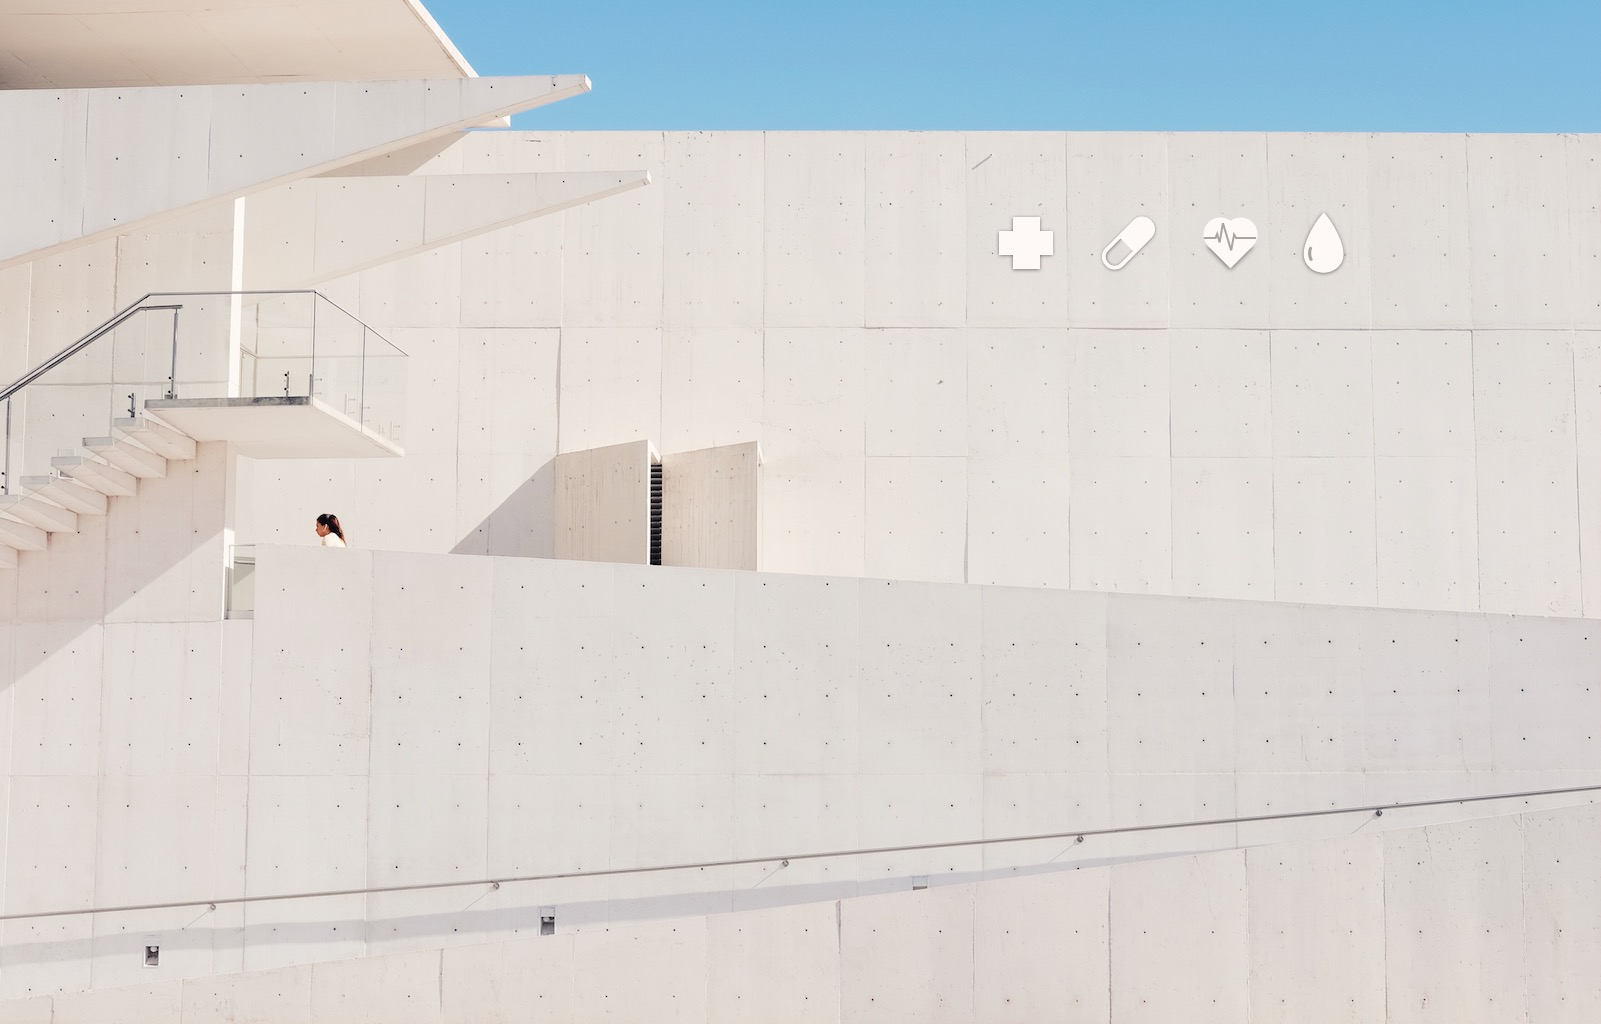
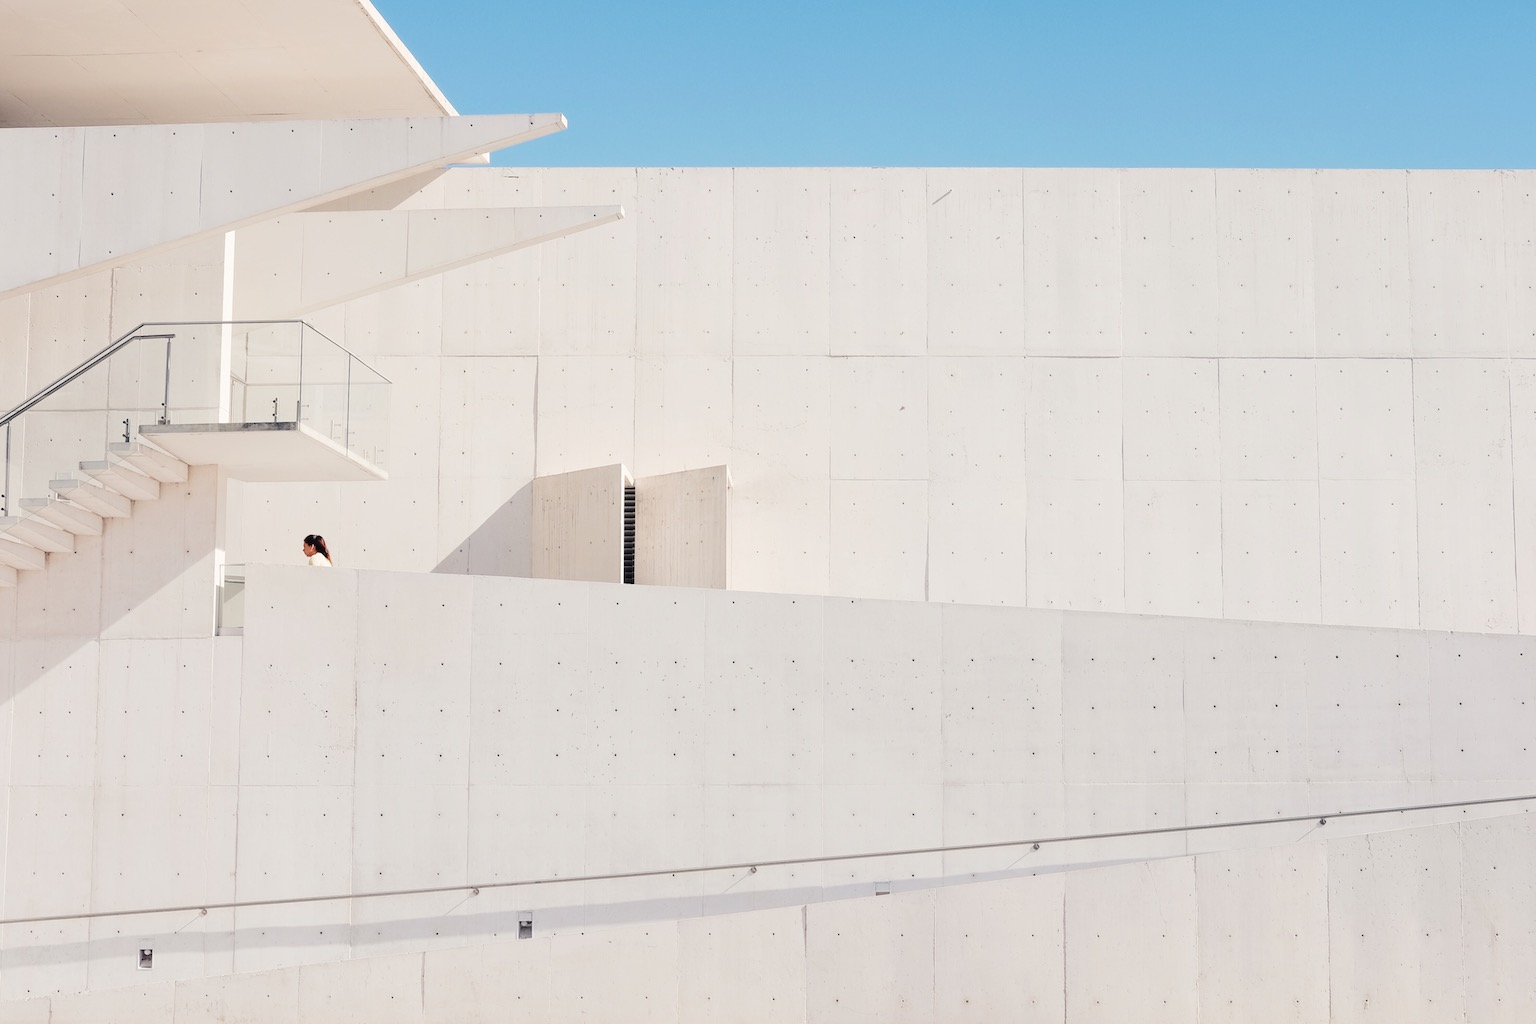
Fine tune health page and link with home page

diff --git a/zh-tw/health.html b/zh-tw/health.html
@@ -1,5 +1,5 @@
 <!DOCTYPE html>
-<html lang="en">
+<html lang="zh-Hant">
 
 <head>
     <meta charset="utf-8">
@@ -9,9 +9,9 @@
     <meta name="og:image" content="https://www.mtmtech.com.tw/images/health-title-og.jpeg" />
     <meta name="author" content="">
 
-    <link rel="icon" href="images/logo.png">
+    <link rel="icon" href="/images/logo.png">
     
-    <title>Smart Healthcare | MtM Technology Corporation</title>
+    <title>智慧醫療 | 先封科技</title>
 
     <!-- Bootstrap Core CSS -->
     <link href="//cdnjs.cloudflare.com/ajax/libs/twitter-bootstrap/3.3.7/css/bootstrap.min.css" rel="stylesheet">
@@ -21,11 +21,11 @@
     <link href='https://fonts.googleapis.com/css?family=Open+Sans:300italic,400italic,600italic,700italic,800italic,400,300,600,700,800' rel='stylesheet' type='text/css'>
 
     <!-- Plugin CSS -->
-    <link href="vendor/magnific-popup/magnific-popup.css" rel="stylesheet">
+    <link href="/vendor/magnific-popup/magnific-popup.css" rel="stylesheet">
 
     <!-- Theme CSS -->
-    <link href="css/creative.css" rel="stylesheet">
-    <link href="css/parallax.css" rel="stylesheet">
+    <link href="/css/creative.css" rel="stylesheet">
+    <link href="/css/parallax.css" rel="stylesheet">
 
     <!-- HTML5 Shim and Respond.js IE8 support of HTML5 elements and media queries -->
     <!-- WARNING: Respond.js doesn't work if you view the page via file:// -->
@@ -63,35 +63,32 @@
     <nav id="mainNav" class="navbar navbar-default navbar-fixed-top">
     </nav>
 
-    <section class="no-padding text-center" data-parallax="scroll" data-image-src="images/health-title.jpeg" style="padding-bottom: 200px;">
+    <section class="no-padding text-center" data-parallax="scroll" data-image-src="/images/health-title.jpeg" style="padding-bottom: 200px;">
         <div class="container">
             <div class="row parallax-header">
                 <div class="col-md-6 col-md-offset-6" style="color: rgba(0,0,0,0.7);">
                     <h3></h3>
-                    <h1>Smart Healthcare</h1>
-                    <hr class="light thin">
-                    <p>The MtM's smart healthcare solution is an open standard platform for that provide the more convenient experience on your
-                        personal medical products. Our development kits with generic IO can let you evaluate new functions
-                        just in time, and our hardware consulting service will save your cost and efforts in electronic design.
+                    <h1>智慧醫療解決方案</h1>
+                    <p>改變傳統醫療裝置的印象</p>
                     </p>
+                    <img src="/images/health-title-icons.png">
                 </div>
             </div>
         </div>
     </section>
 
-    <section style="background:url('images/health-oximeter-bg.jpeg') center top; background-size: cover;">
+    <section style="background:url('/images/health-oximeter-bg.jpeg') center top; background-size: cover;">
         <div class="container ">
             <div class="parallax-window">
-                <h1>Monitor your oxygen saturation and pulse rate </h1>
+                <h1>全球第一款穿戴式血氧飽和儀</h1>
                 <hr class="thin long light">
-                <p>By monitoring of the oxygenation of a patient's hemoglobin, it helps the cardiorespiratory condition of patients
-                    in need of care.</p>
+                <p>隨時監測血紅素中的血氧濃度，即時衡量自己的健康狀態，對照護的患者提供及時的協助</p>
                 <div class="row">
                     <div class="col-md-5 col-md-offset-1">
-                        <img src="images/health-oximeter-app.png">
+                        <img src="/images/health-oximeter-app.png">
                     </div>
                     <div class="col-md-5">
-                        <img src="images/health-oximeter-tbpc-watch.png">
+                        <img src="/images/health-oximeter-tbpc-watch.png">
                     </div>
                 </div>
             </div>
@@ -100,15 +97,12 @@
             <div class="container">
                 <div class="row parallax-window">
                     <div class="col-md-5 col-md-offset-1">
-                        <img src="images/health-oximeter-kit.png">
+                        <img src="/images/health-oximeter-kit.png">
                     </div>
                     <div class="col-md-6">
-                        <h2>Development kit</h2>
-                        <p>The Health Sensor Kit includes MtSense06 with a set of noninvasive PPG sensors which are invented
-                            by Taiwan Biophotonic(tBPC) Co. It provides high accuracy measurements of pulse and blood oxygen
-                            saturation(SpO₂). It is the industry’s first reflective optical sensor for fingerless wrist-worn
-                            pulse oximeter.</p>
-                        <a class="btn btn-xl btn-primary" href="/kit.html#kit-health">Get Development Kit</a>
+                        <h2>開發套件</h2>
+                        <p>Health Sensor Kit 內含血氧飽和度及脈博量測開發板 MtSense06。搭載由合作夥伴台醫光電所開發的光學反射式感應元件，可應用在腕戴式手表、機能衣。支援 ARM mbed OS，不需要安裝 SDK，直接在瀏覽器上開發。</p>
+                        <a class="btn btn-xl btn-primary" href="kit.html#kit-health">我要買</a>
                         <br><br><br>
                     </div>
                 </div>
@@ -118,42 +112,36 @@
             <div class="container">
                 <div class="row parallax-window">
                     <div class="col-md-6">
-                        <img src="images/health-oximeter-pcb.jpg" style="border:1px solid rgba(0, 0, 0, 0.6);">
+                        <img src="/images/health-oximeter-pcb.jpg" style="border:1px solid rgba(0, 0, 0, 0.6);">
                     </div>
                     <div class="col-md-6">
-                        <h2>Prototype consultant</h2>
-                        <p>From the wrist watch to smart t-shirt, we can help to drive your product idea to prototype. By SiP
-                            module, reference design, RF and certification recommendation, you could save time and cost of
-                            evaluation samples.
-                        </p>
+                        <h2>原型設計服務</h2>
+                        <p>我們有豐富的硬體電路經驗，包含增進天線效能及機構設計，可以快速將構想商品化，減少打件次數，節省設計成本。</p>
                     </div>
                 </div>
             </div>
         </div>
     </section>
 
-    <section class="no-padding" data-parallax="scroll" data-image-src="images/health-glucometer-bg.jpg">
+    <section class="no-padding" data-parallax="scroll" data-image-src="/images/health-glucometer-bg.jpg">
         <div class="parallax-window">
             <div class="container">
                 <div class="row">
                     <div class="col-md-8 col-md-offset-2">
-                        <h1>Connect your glucometer with mobile app, wirelessly.</h1>
+                        <h1>簡單升級你的血糖機產品</h1>
                         <hr class="thin light">
-                        <p>Without changing the hardware design of your product, use existing interfaces, like the phone jack,
-                            USB port to connect personal app by MtM's Bluetooth solution. We can help you to upgrade the
-                            existing product. By a single Bluetooth accessory, let diabetes patients manage their blood sugar
-                            level more conveniently and efficiently.</p>
+                        <p>不需要修改目前產品的設計，我們可以透過現有的輸出埠，例如 USB、耳機孔做連線，再使用藍牙將資料同步到手機上。升級現有產品方案，節省重新認證產品的花費。</p>
                     </div>
                 </div>
                 <div class="row">
                     <div class="col-xs-12 hidden-lg hidden-md hidden-sm">
-                        <img src="images/health-glucometer-dongle-xs.png">
+                        <img src="/images/health-glucometer-dongle-xs.png">
                     </div>
                     <div class="col-lg-6 col-md-12 hidden-xs">
-                        <img src="images/health-glucometer-dongle.png">
+                        <img src="/images/health-glucometer-dongle.png">
                     </div>
                     <div class="col-lg-6 hidden-md hidden-sm hidden-xs">
-                        <img src="images/health-glucometer-app.png">
+                        <img src="/images/health-glucometer-app.png">
                     </div>
                 </div>
                 <p>
@@ -165,32 +153,29 @@
         <div class="container text-center">
             <div class="col-md-4 service-box">
                 <div class="big-number">HDP</div>
-                <h2>Bluetooth profile</h2>
-                <p class="text-muted">Using standard Bluetooth pulse oximeter profile, the firmware is ready for diabete apps on the market.</p>
+                <h2>標準藍牙規範</h2>
+                <p class="text-muted">支援使用標準藍牙血糖傳輸協定的應用程式</p>
             </div>
             <div class="col-md-4 service-box">
-                <img src="images/health-glucometer-battery.png" class="sr-icons">
-                <h2>Low power</h2>
-                <p class="text-muted">Need only one coin battary to drive the Bluetooth accessory for one year.</p>
+                <img src="/images/health-glucometer-battery.png" class="sr-icons">
+                <h2>低功耗</h2>
+                <p class="text-muted">一顆水銀電池可以提供長效使用時間</p>
             </div>
             <div class="col-md-4 service-box">
-                <img src="images/health-glucometer-hardware.png" class="sr-icons">
-                <h2>Hardware service</h2>
-                <p class="text-muted">We provide the schematic references of the pcb anntena, power circuit and offer the consulting service as
-                    needed to assist your hardware design.</p>
+                <img src="/images/health-glucometer-hardware.png" class="sr-icons">
+                <h2>硬體設計服務</h2>
+                <p class="text-muted">提供包含電路、天線等標準參考設計，我們也可以提供咨詢，針對現有的你的設計提出建議</p>
             </div>
         </div>
     </section>
 
-    <section data-parallax="scroll" data-image-src="images/health-bridge-bg.jpg">
+    <section data-parallax="scroll" data-image-src="/images/health-bridge-bg.jpg">
         <div class="container parallax-window">
             <div class="row">
                 <div class="col-md-6">
                     <h1>Wireless bridge</h1>
-                    <p>With the MtM wireless bridge, collecting data of measurements will be much easier. Via Bluetooth, it
-                        automatically searches sensors and collect data, then send to the cloud via Wi-Fi.
-                    </p>
-                    <a class="btn btn-xl btn-primary" href="https://blog.mtmtech.com.tw/2016/06/15/wireless-bridge/">Find out more</a>
+                    <p>針對特別的場域應用，我們提供 Wireless bridge 的解決方案。使用 USB 供電，自動搜尋附近的裝置，透過無線網路將資料同步到雲端。</p>
+                    <a class="btn btn-xl btn-primary" href="https://blog.mtmtech.com.tw/2016/06/15/wireless-bridge/">更多細節（英文）</a>
                 </div>
             </div>
         </div>
@@ -212,13 +197,13 @@
     <!-- Plugin JavaScript -->
     <script src="//cdnjs.cloudflare.com/ajax/libs/jquery-easing/1.3/jquery.easing.min.js"></script>
     <script src="//cdnjs.cloudflare.com/ajax/libs/scrollReveal.js/3.1.4/scrollreveal.min.js"></script>
-    <script src="vendor/magnific-popup/jquery.magnific-popup.min.js"></script>
-    <script src="vendor/pixelcog/parallax.min.js"></script>
+    <script src="/vendor/magnific-popup/jquery.magnific-popup.min.js"></script>
+    <script src="/vendor/pixelcog/parallax.min.js"></script>
 
-    <script src="js/mtm-link.js"></script>
+    <script src="/js/mtm-link.js"></script>
 
     <!-- Theme JavaScript -->
-    <script src="js/creative.min.js"></script>
+    <script src="/js/creative.min.js"></script>
 
     <script>
         $(document).on("scroll", function () {
@@ -231,7 +216,7 @@
         });
 
         $("#mainNav").load("nav.html", function () {
-            $("#zh-button a:first").attr("href", "zh-tw/health.html");
+            $("#en-button a:first").attr("href", "/health.html");
         });
         $("#contact").load("footer-contact.html");
         $("#myFooter").load("footer.html");

diff --git a/index.html b/index.html
@@ -302,12 +302,12 @@
                 </a>
             </div>
             <div class="col-lg-4 col-sm-6">
-                <a href="#contact" class="portfolio-box">
+                <a href="health.html" class="portfolio-box">
                     <img src="images/main-product-box-health.jpg" class="img-responsive" alt="">
                     <div class="portfolio-box-caption">
                         <div class="portfolio-box-caption-content" id="health-solution">
                             <div class="project-category text-faded">
-                                Healthcare Wearable Solution
+                                Smart Healthcare
                             </div>
                             <hr class="light thin">
                             <div class="project-name">

diff --git a/zh-tw/index.html b/zh-tw/index.html
@@ -319,12 +319,12 @@
                 </a>
             </div>
             <div class="col-lg-4 col-sm-6">
-                <a href="#contact" class="portfolio-box">
+                <a href="health.html" class="portfolio-box">
                     <img src="/images/main-product-box-health.jpg" class="img-responsive" alt="">
                     <div class="portfolio-box-caption">
                         <div class="portfolio-box-caption-content" id="health-solution">
                             <div class="project-category text-faded">
-                                健康管理穿戴式裝置
+                                智慧醫療
                             </div>
                             <hr class="light thin">
                             <div class="project-name">
